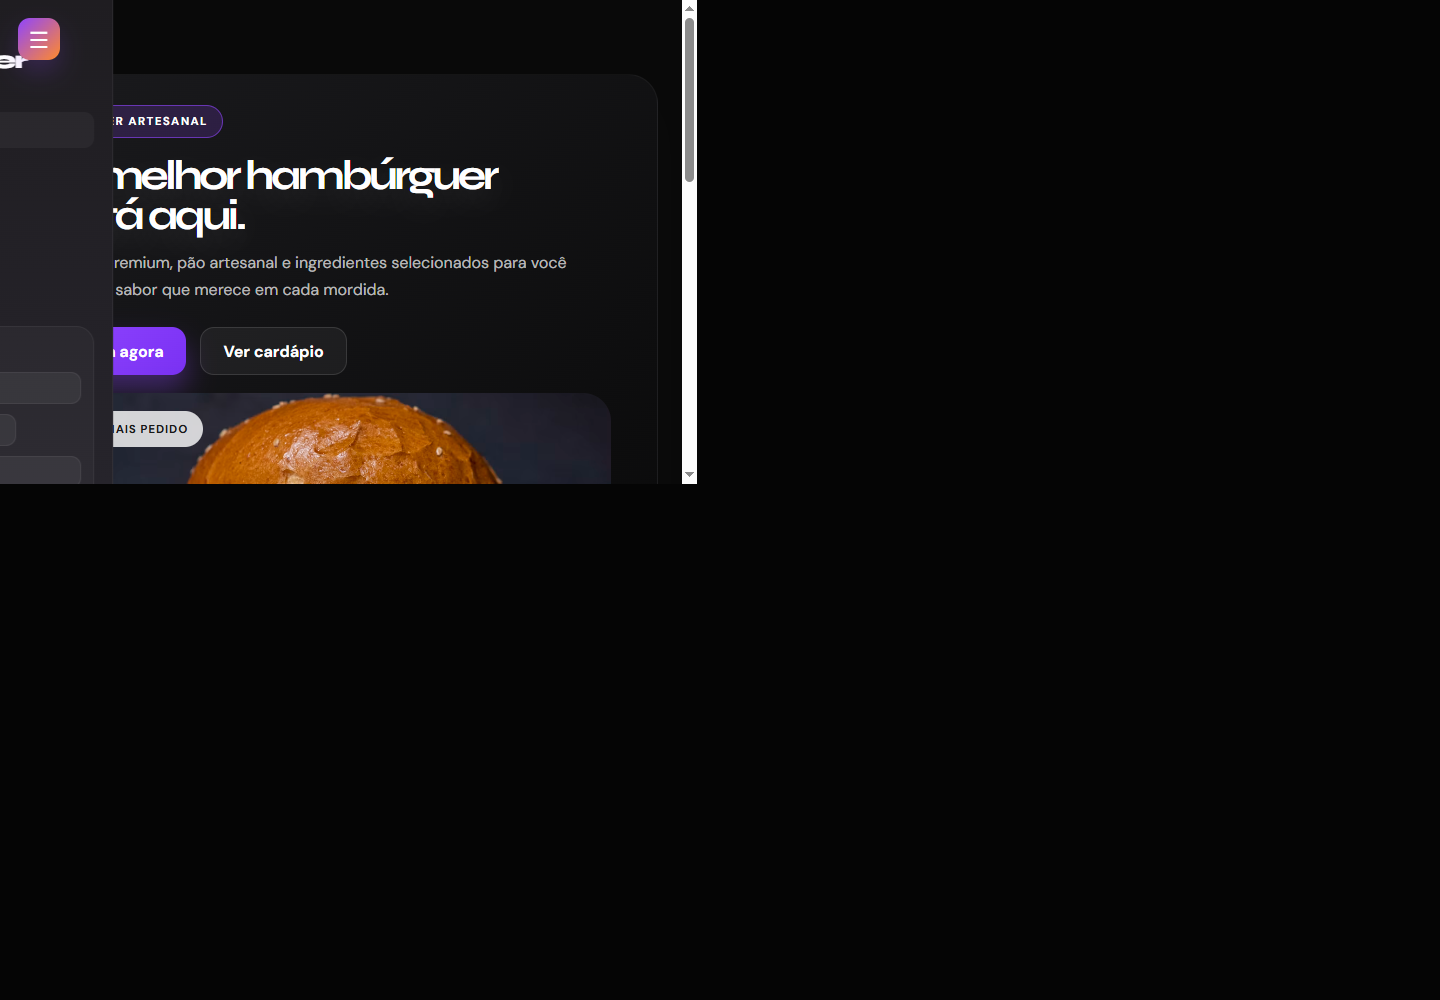
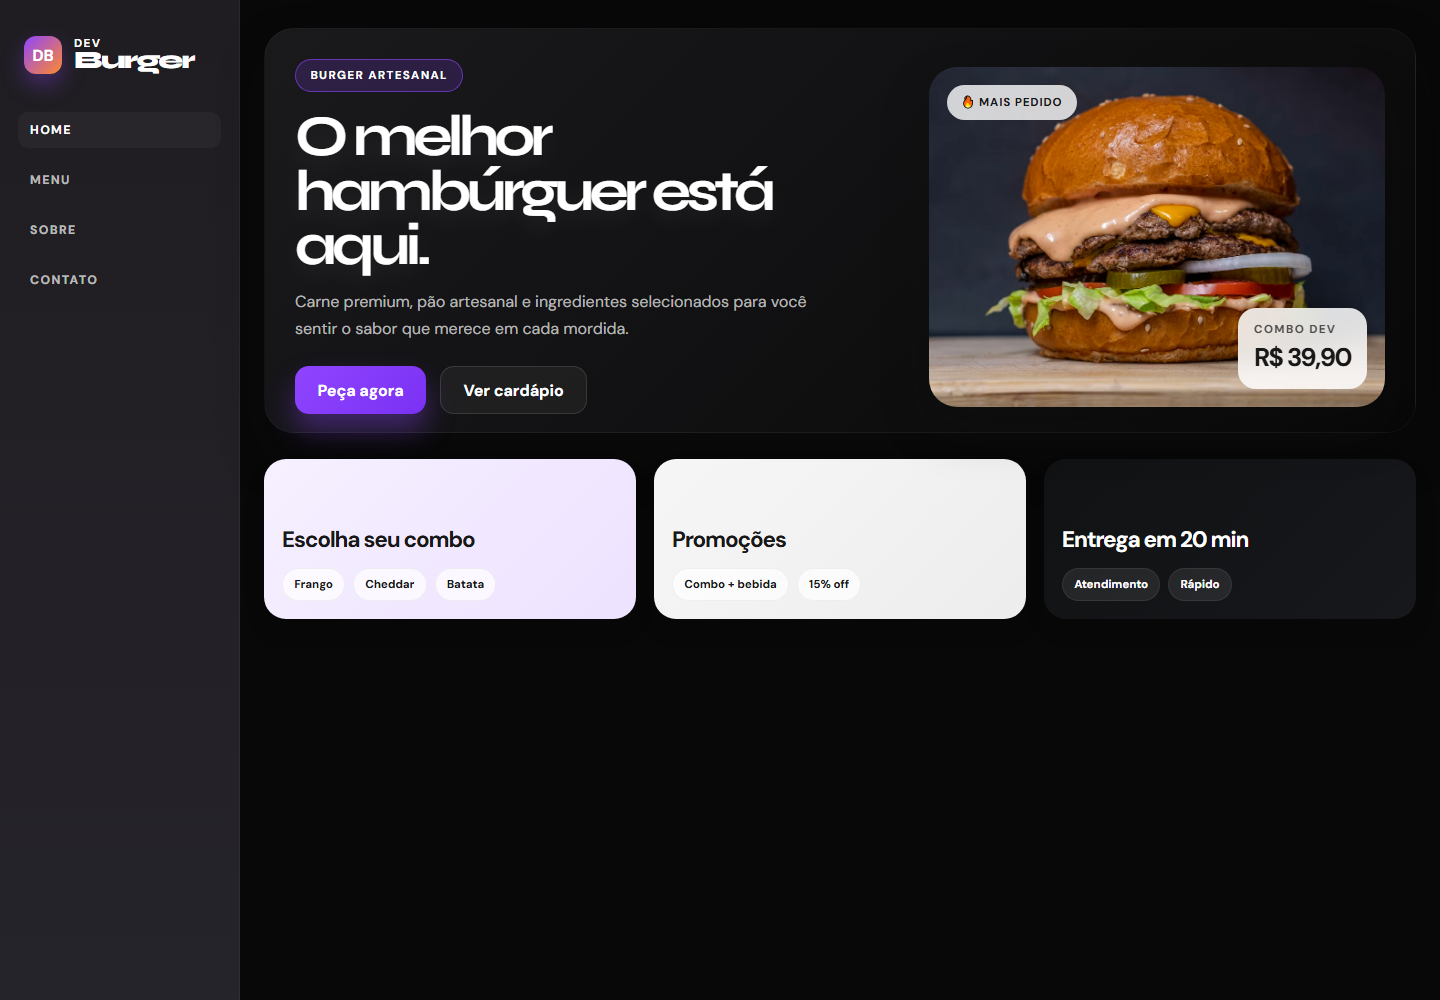
fix: refresh desktop README preview

diff --git a/src/styles.css b/src/styles.css
@@ -183,6 +183,7 @@ button {
 }
 
 .main-stage {
+  width: 100%;
   min-width: 0;
   padding: 28px 24px 32px;
   display: flex;
@@ -706,13 +707,16 @@ button {
   }
 
   .hero-panel {
+    width: 100%;
     padding: 20px 18px 18px;
     border-radius: 24px;
+    overflow: hidden;
   }
 
   .hero-copy h1 {
     font-size: clamp(2.35rem, 11vw, 3.5rem);
     letter-spacing: -0.065em;
+    overflow-wrap: anywhere;
   }
 
   .hero-copy p {
@@ -728,6 +732,8 @@ button {
   }
 
   .hero-visual img {
+    width: 100%;
+    max-width: 100%;
     height: 240px;
   }
 }
